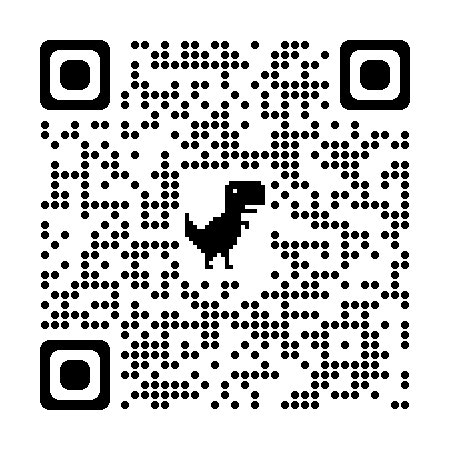
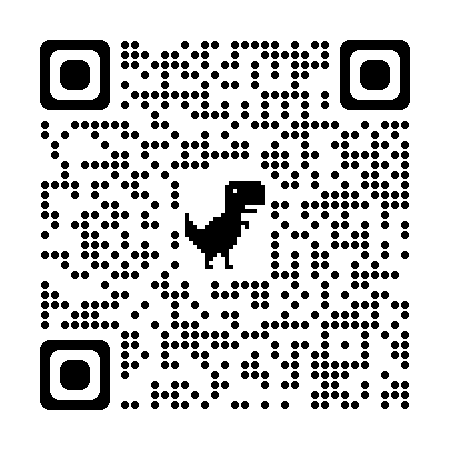
Updated Portfolio QR and Link in Resume.html

diff --git a/resume.html b/resume.html
@@ -62,7 +62,7 @@
                         <h2>Reference</h2>
                         <h3>MY PERSONAL WEBSITE</h3>
                         <div class="QR">
-                            <a href="#">
+                            <a href="https://asimo101969.github.io/Portfolio/">
                                 <img src="./img/qrcode_portfolio.png" alt="My portfolio website">
                             </a>
                         </div>
